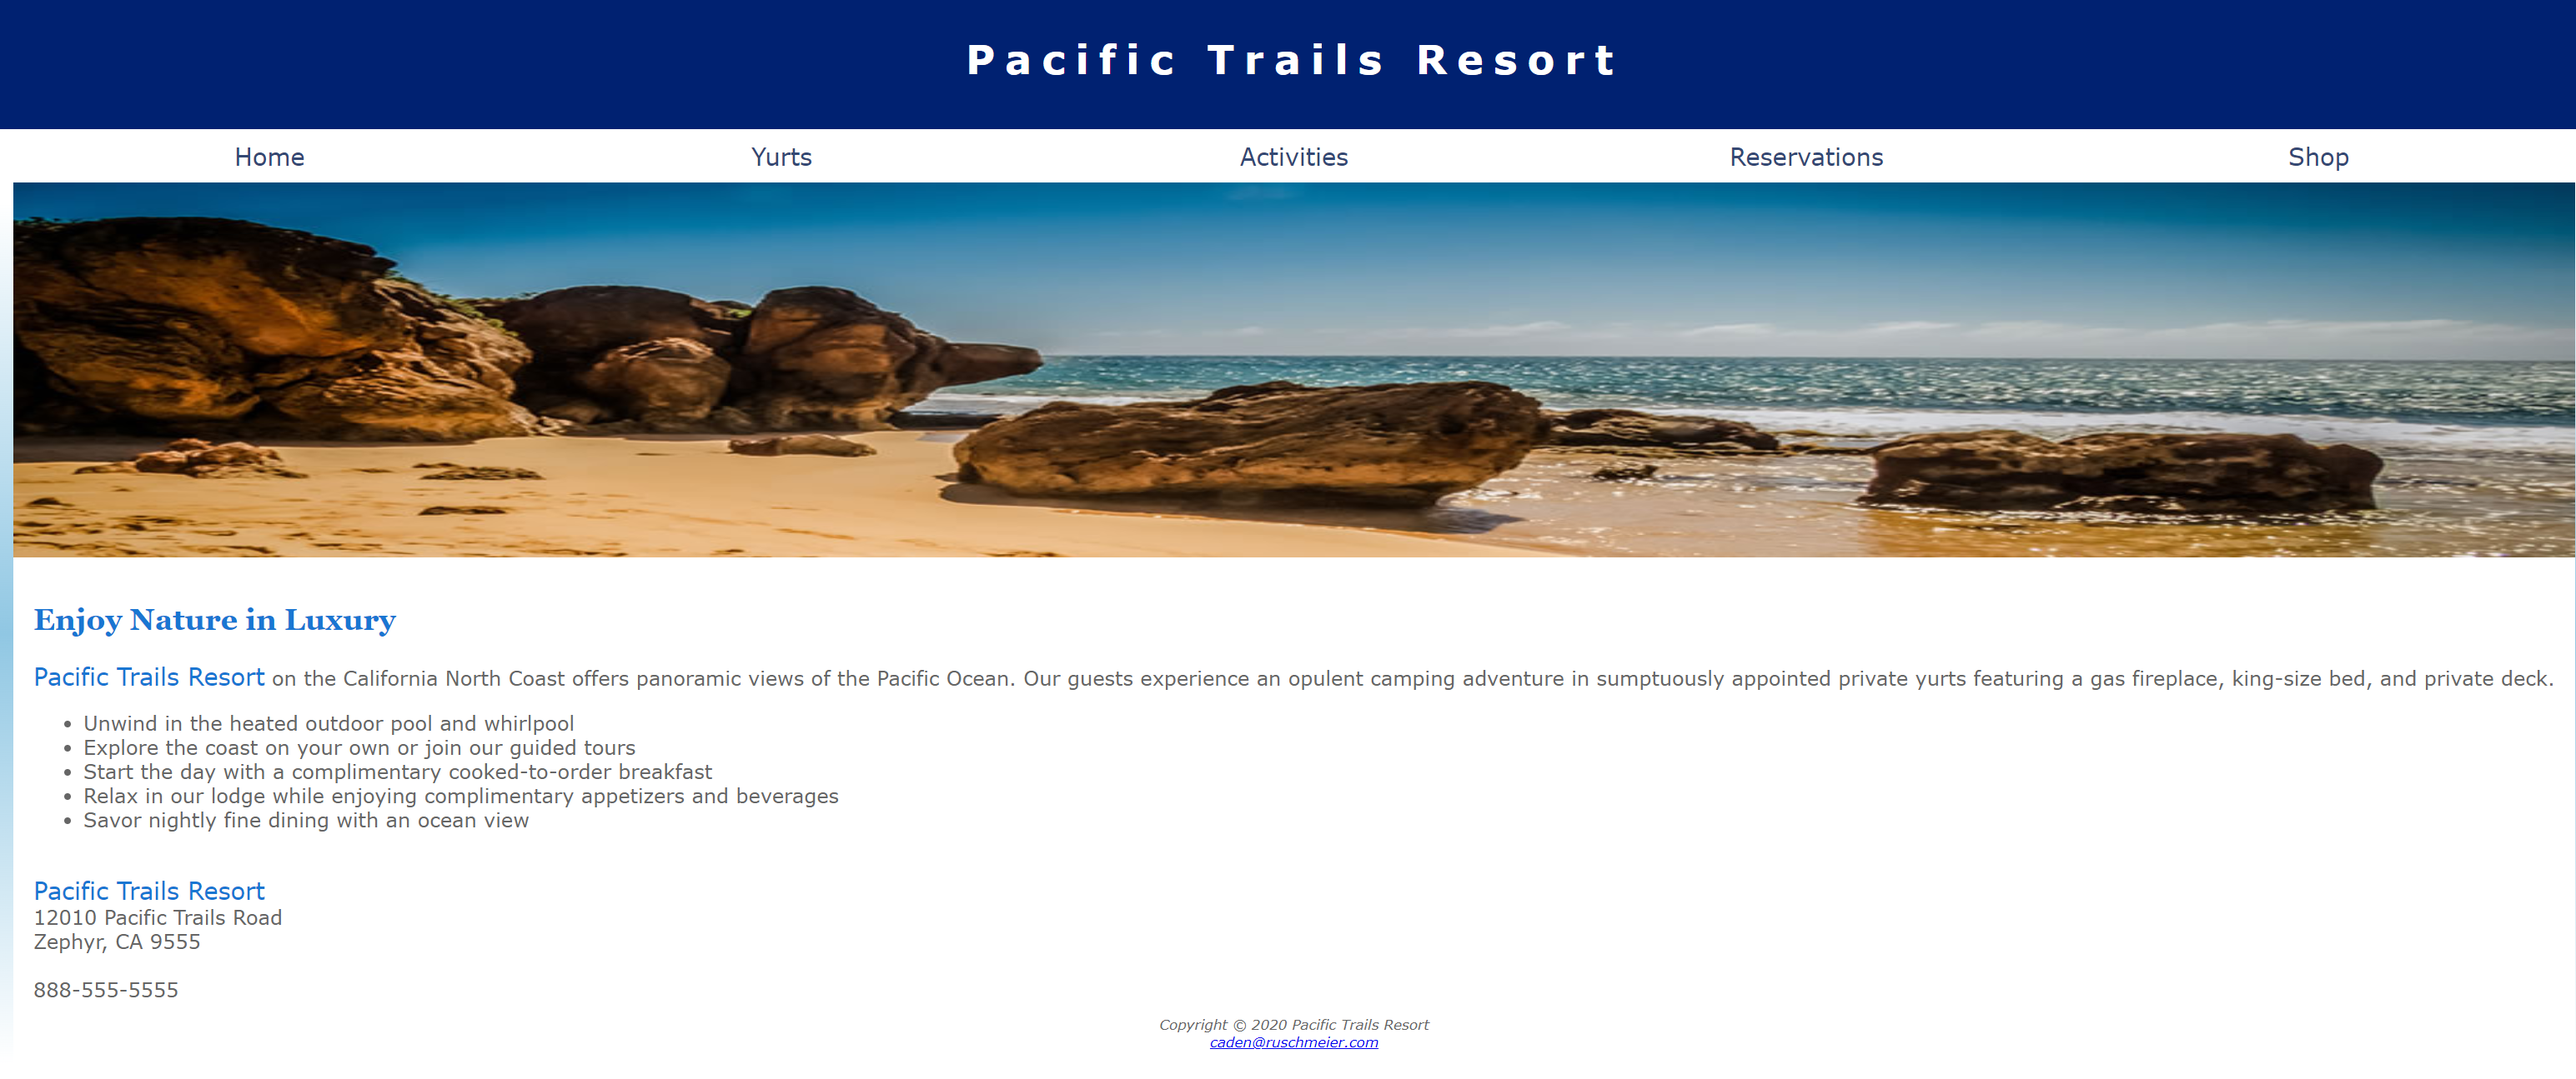
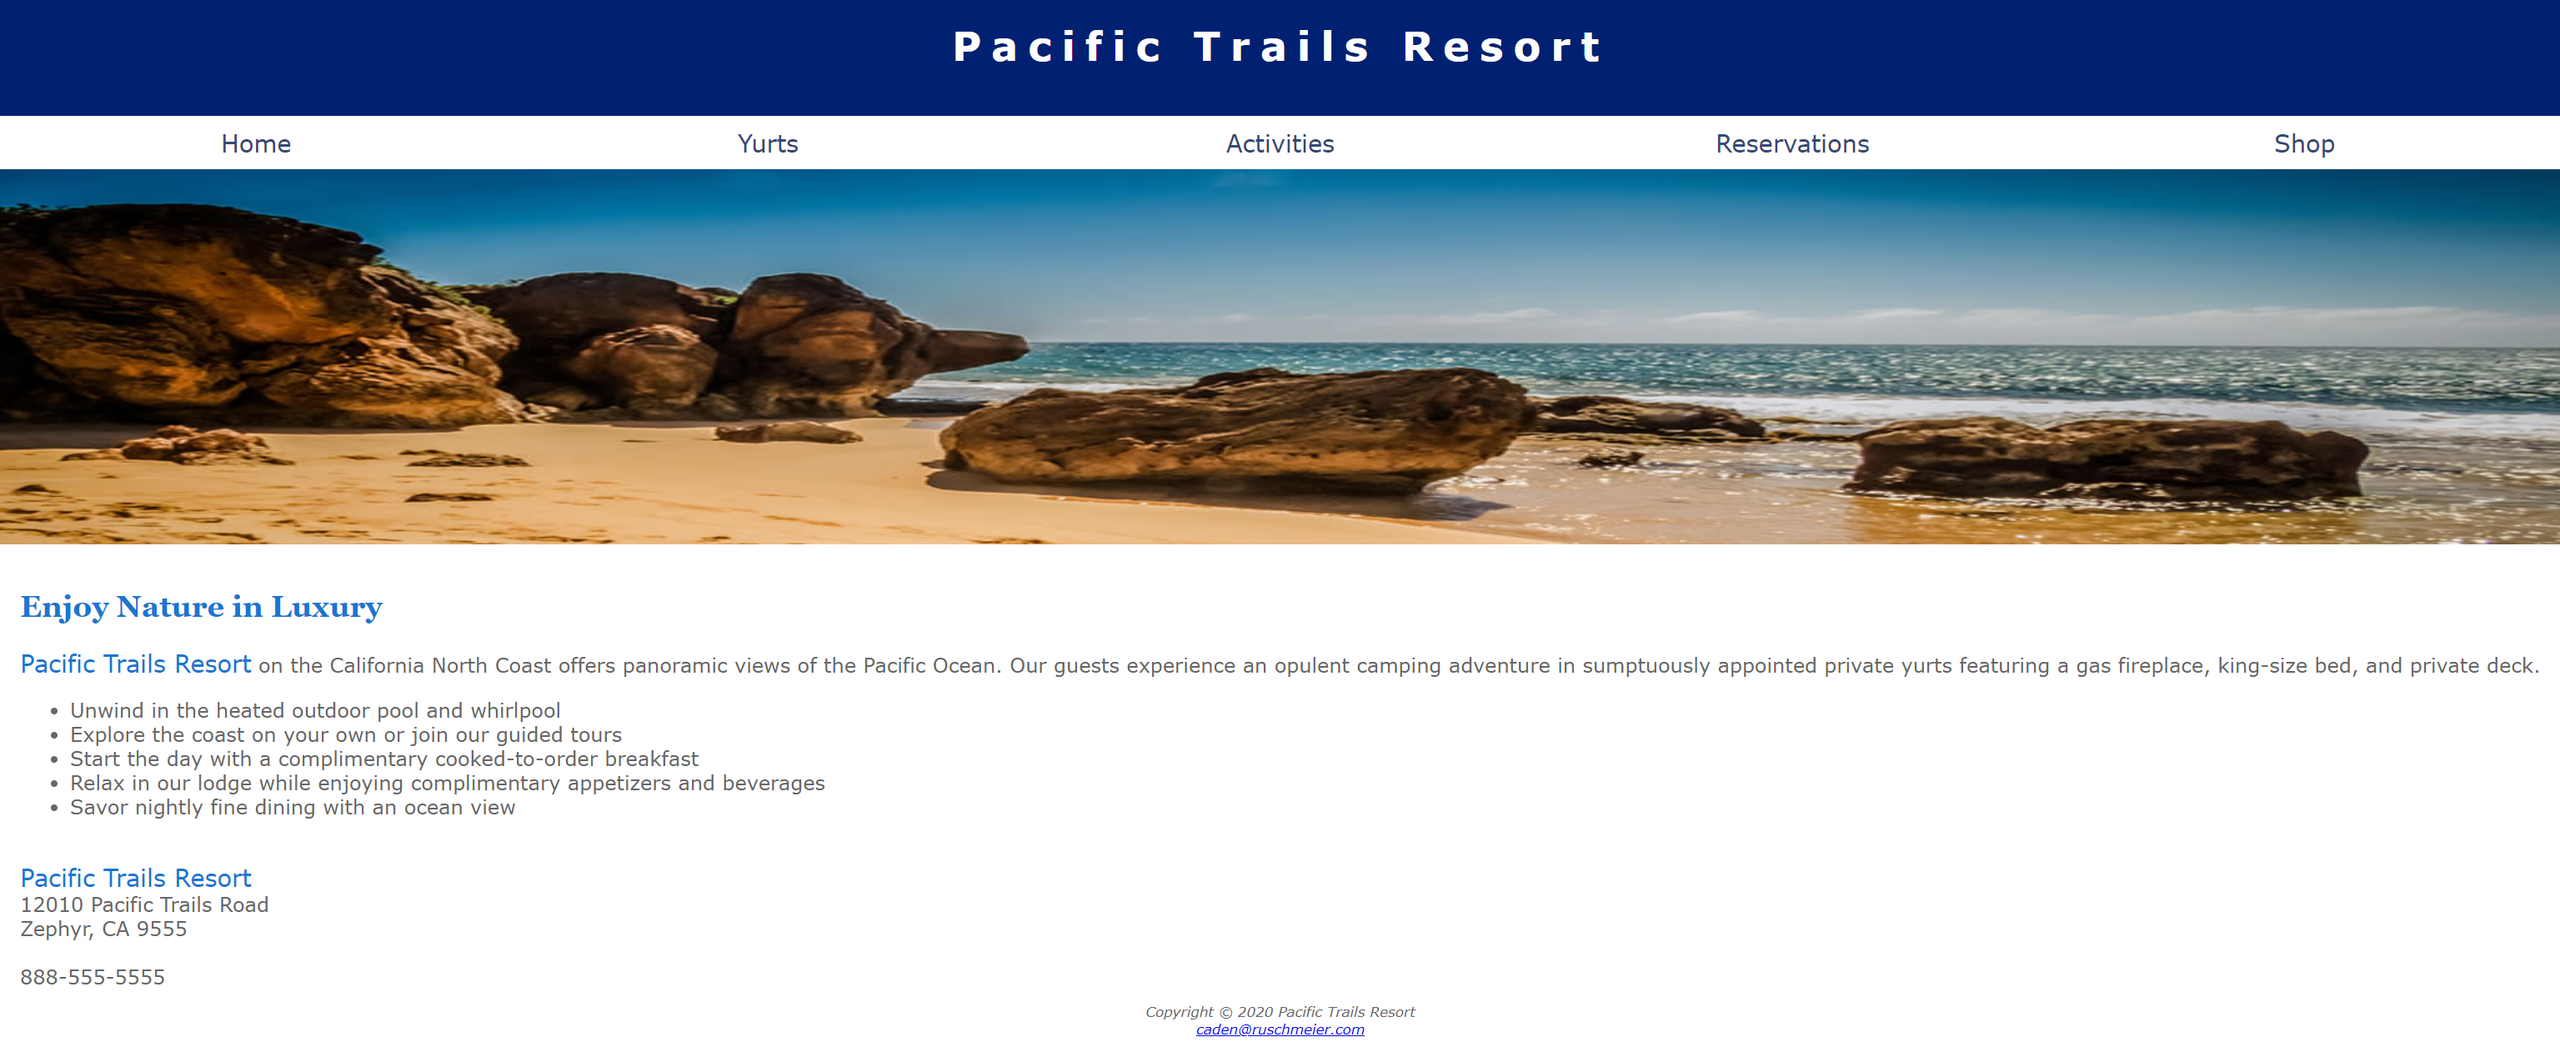
new

Changed region(s): [[0.0, 0.0308, 1.0, 0.9535], [0.464, 0.9227, 0.5568, 0.9842]]

diff --git a/portfolio.css b/portfolio.css
@@ -13,10 +13,10 @@ h2 {color:#4A8BDF}
 h3 {color:#4A8BDF}
 #cssjscss {background-image:url(jshtmlcss.png); background-position-x: center;
   height: 350px; background-repeat: no-repeat; background-size: 50% 100%; }
-#homepage {background-image:url(homepage.png); margin-left: 200px;
-  height: 250px; background-repeat: no-repeat; background-size: 45% 100%; }
+.photo {background-image:url(homepage.png); margin-left: 200px;
+  height: 250px; background-repeat: no-repeat; background-size: 45% 100%; width: 50%; }
 .text-box { width: 20%; padding: 10px; margin:auto; font-weight: bold;}
-.center {display: block;margin-left: auto;margin-right: auto;width: 50%}
+.center {display: block;margin-left: auto;margin-right: auto;width: 75%}
 .button { background-color:#A0006D ; }
 * {box-sizing: border-box;}
 input[type=text], select, textarea {width: 100%;padding: 12px; border: 1px solid #ccc;border-radius: 4px;

diff --git a/projects.html b/projects.html
@@ -30,7 +30,9 @@
   <li><a href="https://github.com/starz02/SDEV153-Ch13">Repository Link to Chapter 13</a></li>
   <li><a href="https://github.com/starz02/SDEV153-Ch14">Repository Link to Chapter 14</a></li>
 </ul>
-<div id="homepage"></div>
+<div class="photo">
+  <a href="homepage.png"><img src="homepage.png" alt="Pacific Home Page" style="height: 250px; width:50%"></a>
+</div>
 </div>
 </main>
 <style>
